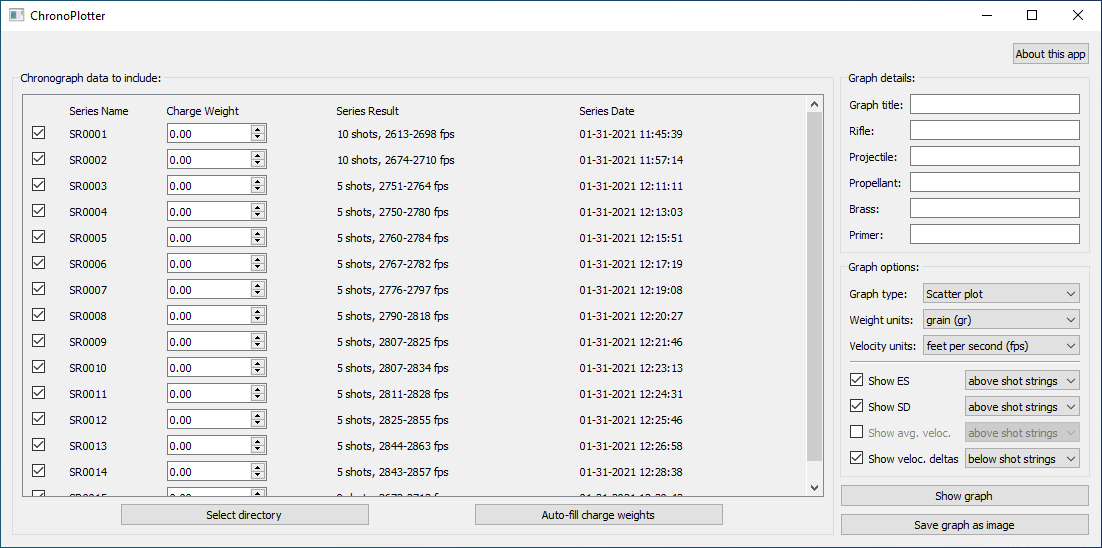
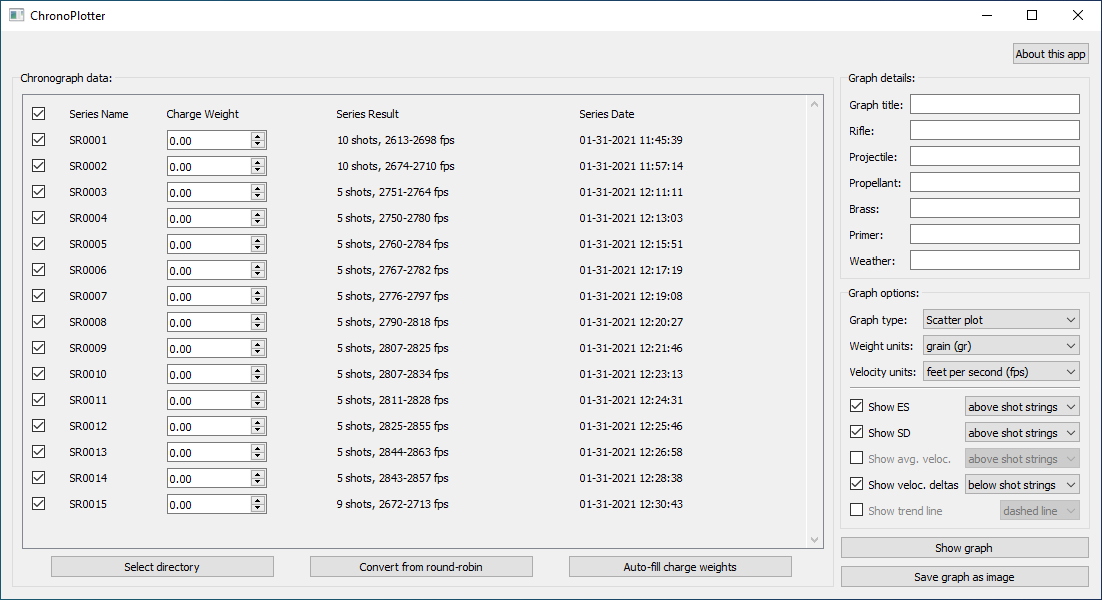
Updated readme and screenshots

diff --git a/README.md b/README.md
@@ -4,6 +4,7 @@ Easily generate graphs using recorded data from your chronograph. Supports LabRa
 
 Table of contents:
 * [Quick Start](#quick-start)
+* [Round-Robin (OCW) Testing](#round-robin-ocw-testing)
 * [Running ChronoPlotter with Python](#running-chronoplotter-with-python)
 * [Notes About PyInstaller](#notes-about-pyinstaller)
 
@@ -49,6 +50,20 @@ You can alternatively create a line chart with standard deviation error bars by 
 By default, ChronoPlotter includes ES (Extreme Spread), SD (Standard Deviation), and the series-to-series difference in velocity for each series in the graph. The average (mean) velocity for each series can also be included but is unchecked by default. You can add, remove, or change the location of these details in the graph under the `Graph options` section.
 
 Close the preview window, making sure not to close ChronoPlotter itself. Finally, click `Save graph as image` to save your graph as a .PNG, .SVG, or .PDF file.
+
+## Round-Robin (OCW) Testing
+
+ChronoPlotter supports chronograph data recorded using the "round-robin" method popular with [OCW testing](http://www.ocwreloading.com/). First, uncheck any series not part of the round-robin:
+
+![Populated OCW series data](https://github.com/mncoppola/ChronoPlotter/blob/main/images/ocw_1.png?raw=true)
+
+Click the `Convert from round-robin` button to open this dialog:
+
+![Convert OCW series dialog](https://github.com/mncoppola/ChronoPlotter/blob/main/images/ocw_2.png?raw=true)
+
+Then click `OK` to convert the series data into traditional series suitable for graphing. Note that ChronoPlotter does *not* alter your CSV files, this only converts the data loaded in the program:
+
+![Converted OCW series data](https://github.com/mncoppola/ChronoPlotter/blob/main/images/ocw_3.png?raw=true)
 
 ## Running ChronoPlotter with Python
 
